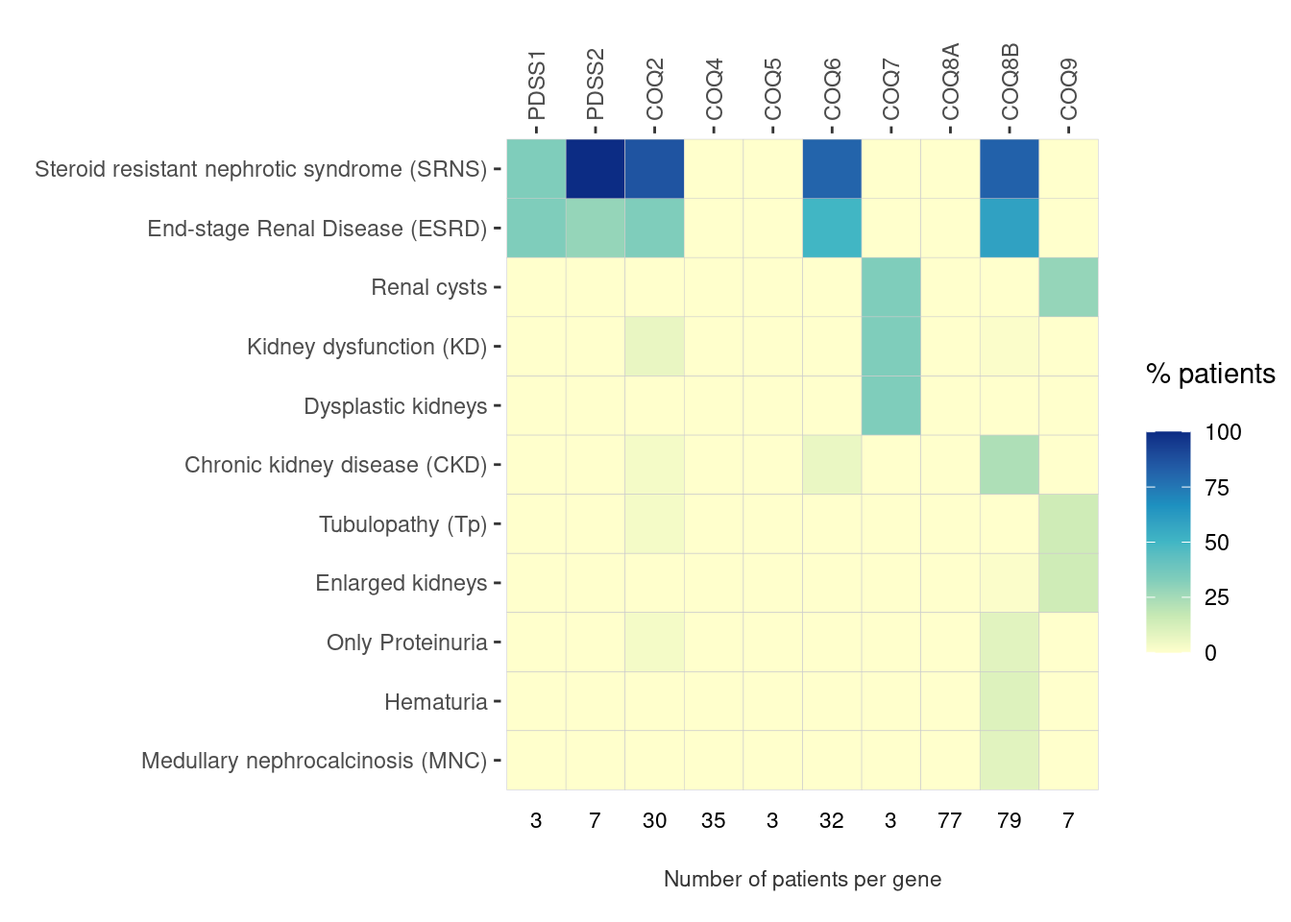
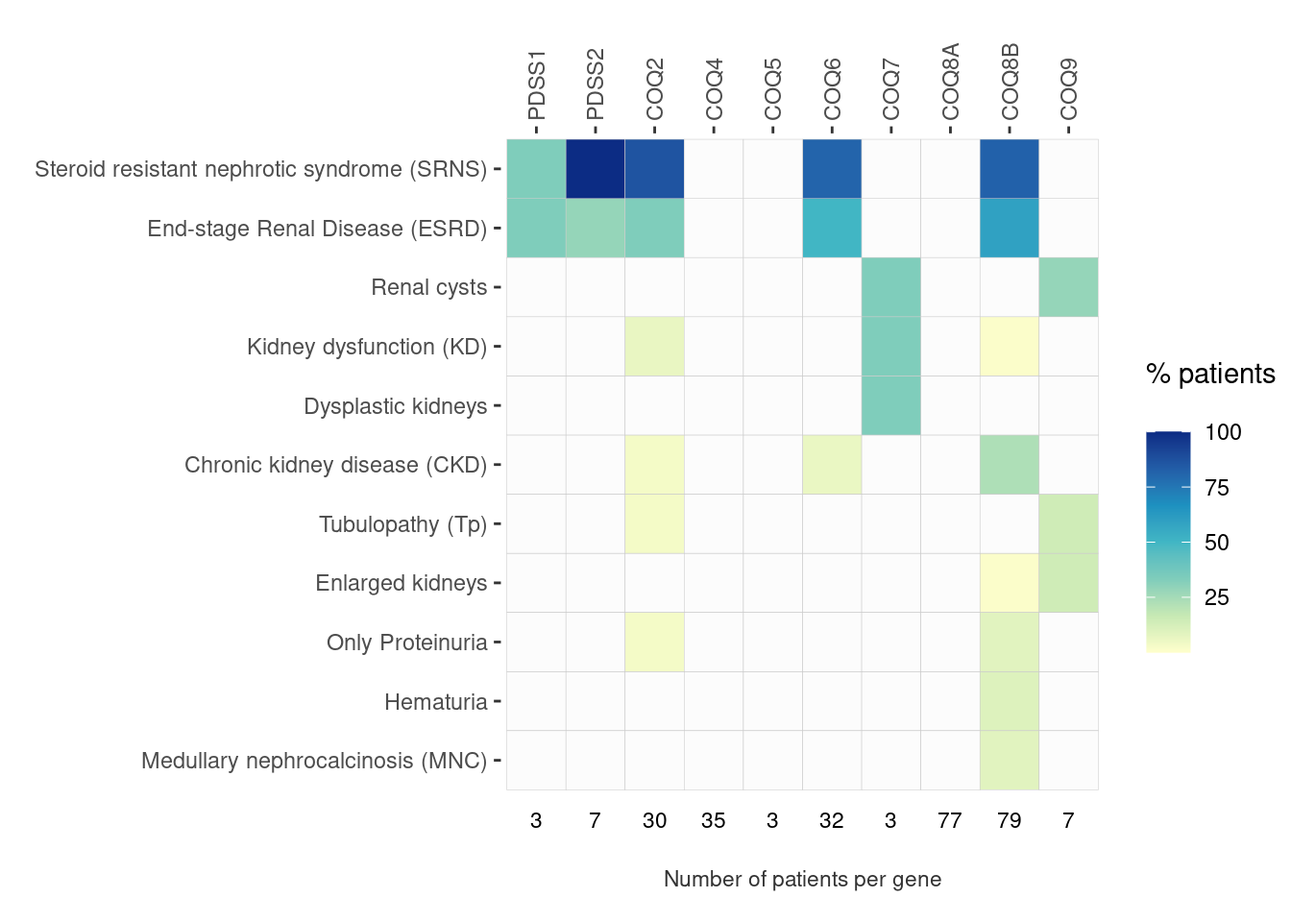
heatmap: show cells with 0 patients in different colour (light grey)

Changed region(s): [[0.375, 0.125, 0.875, 0.875]]

diff --git a/docs/Table.html b/docs/Table.html
@@ -361,8 +361,8 @@ $(document).ready(function () {
 
 
 <p>In this table you can search by symptom (and link to symptom description). Numbers represent number of patients.</p>
-<div id="htmlwidget-c0d28155d7afb2cf075a" style="width:100%;height:auto;" class="datatables html-widget"></div>
-<script type="application/json" data-for="htmlwidget-c0d28155d7afb2cf075a">{"x":{"filter":"top","filterHTML":"<tr>\n  <td data-type=\"character\" style=\"vertical-align: top;\">\n    <div class=\"form-group has-feedback\" style=\"margin-bottom: auto;\">\n      <input type=\"search\" placeholder=\"All\" class=\"form-control\" style=\"width: 100%;\"/>\n      <span class=\"glyphicon glyphicon-remove-circle form-control-feedback\"><\/span>\n    <\/div>\n  <\/td>\n  <td data-type=\"character\" style=\"vertical-align: top;\">\n    <div class=\"form-group has-feedback\" style=\"margin-bottom: auto;\">\n      <input type=\"search\" placeholder=\"All\" class=\"form-control\" style=\"width: 100%;\"/>\n      <span class=\"glyphicon glyphicon-remove-circle form-control-feedback\"><\/span>\n    <\/div>\n  <\/td>\n  <td data-type=\"number\" style=\"vertical-align: top;\">\n    <div class=\"form-group has-feedback\" style=\"margin-bottom: auto;\">\n      <input type=\"search\" placeholder=\"All\" class=\"form-control\" style=\"width: 100%;\"/>\n      <span class=\"glyphicon glyphicon-remove-circle form-control-feedback\"><\/span>\n    <\/div>\n    <div style=\"display: none; position: absolute; width: 200px;\">\n      <div data-min=\"0\" data-max=\"2\"><\/div>\n      <span style=\"float: left;\"><\/span>\n      <span style=\"float: right;\"><\/span>\n    <\/div>\n  <\/td>\n  <td data-type=\"number\" style=\"vertical-align: top;\">\n    <div class=\"form-group has-feedback\" style=\"margin-bottom: auto;\">\n      <input type=\"search\" placeholder=\"All\" class=\"form-control\" style=\"width: 100%;\"/>\n      <span class=\"glyphicon glyphicon-remove-circle form-control-feedback\"><\/span>\n    <\/div>\n    <div style=\"display: none; position: absolute; width: 200px;\">\n      <div data-min=\"0\" data-max=\"7\"><\/div>\n      <span style=\"float: left;\"><\/span>\n      <span style=\"float: right;\"><\/span>\n    <\/div>\n  <\/td>\n  <td data-type=\"number\" style=\"vertical-align: top;\">\n    <div class=\"form-group has-feedback\" style=\"margin-bottom: auto;\">\n      <input type=\"search\" placeholder=\"All\" class=\"form-control\" style=\"width: 100%;\"/>\n      <span class=\"glyphicon glyphicon-remove-circle form-control-feedback\"><\/span>\n    <\/div>\n    <div style=\"display: none; position: absolute; width: 200px;\">\n      <div data-min=\"0\" data-max=\"26\"><\/div>\n      <span style=\"float: left;\"><\/span>\n      <span style=\"float: right;\"><\/span>\n    <\/div>\n  <\/td>\n  <td data-type=\"number\" style=\"vertical-align: top;\">\n    <div class=\"form-group has-feedback\" style=\"margin-bottom: auto;\">\n      <input type=\"search\" placeholder=\"All\" class=\"form-control\" style=\"width: 100%;\"/>\n      <span class=\"glyphicon glyphicon-remove-circle form-control-feedback\"><\/span>\n    <\/div>\n    <div style=\"display: none; position: absolute; width: 200px;\">\n      <div data-min=\"0\" data-max=\"19\"><\/div>\n      <span style=\"float: left;\"><\/span>\n      <span style=\"float: right;\"><\/span>\n    <\/div>\n  <\/td>\n  <td data-type=\"number\" style=\"vertical-align: top;\">\n    <div class=\"form-group has-feedback\" style=\"margin-bottom: auto;\">\n      <input type=\"search\" placeholder=\"All\" class=\"form-control\" style=\"width: 100%;\"/>\n      <span class=\"glyphicon glyphicon-remove-circle form-control-feedback\"><\/span>\n    <\/div>\n    <div style=\"display: none; position: absolute; width: 200px;\">\n      <div data-min=\"0\" data-max=\"3\"><\/div>\n      <span style=\"float: left;\"><\/span>\n      <span style=\"float: right;\"><\/span>\n    <\/div>\n  <\/td>\n  <td data-type=\"number\" style=\"vertical-align: top;\">\n    <div class=\"form-group has-feedback\" style=\"margin-bottom: auto;\">\n      <input type=\"search\" placeholder=\"All\" class=\"form-control\" style=\"width: 100%;\"/>\n      <span class=\"glyphicon glyphicon-remove-circle form-control-feedback\"><\/span>\n    <\/div>\n    <div style=\"display: none; position: absolute; width: 200px;\">\n      <div data-min=\"0\" data-max=\"26\"><\/div>\n      <span style=\"float: left;\"><\/span>\n      <span style=\"float: right;\"><\/span>\n    <\/div>\n  <\/td>\n  <td data-type=\"number\" style=\"vertical-align: top;\">\n    <div class=\"form-group has-feedback\" style=\"margin-bottom: auto;\">\n      <input type=\"search\" placeholder=\"All\" class=\"form-control\" style=\"width: 100%;\"/>\n      <span class=\"glyphicon glyphicon-remove-circle form-control-feedback\"><\/span>\n    <\/div>\n    <div style=\"display: none; position: absolute; width: 200px;\">\n      <div data-min=\"0\" data-max=\"3\"><\/div>\n      <span style=\"float: left;\"><\/span>\n      <span style=\"float: right;\"><\/span>\n    <\/div>\n  <\/td>\n  <td data-type=\"number\" style=\"vertical-align: top;\">\n    <div class=\"form-group has-feedback\" style=\"margin-bottom: auto;\">\n      <input type=\"search\" placeholder=\"All\" class=\"form-control\" style=\"width: 100%;\"/>\n      <span class=\"glyphicon glyphicon-remove-circle form-control-feedback\"><\/span>\n    <\/div>\n    <div style=\"display: none; position: absolute; width: 200px;\">\n      <div data-min=\"0\" data-max=\"70\"><\/div>\n      <span style=\"float: left;\"><\/span>\n      <span style=\"float: right;\"><\/span>\n    <\/div>\n  <\/td>\n  <td data-type=\"number\" style=\"vertical-align: top;\">\n    <div class=\"form-group has-feedback\" style=\"margin-bottom: auto;\">\n      <input type=\"search\" placeholder=\"All\" class=\"form-control\" style=\"width: 100%;\"/>\n      <span class=\"glyphicon glyphicon-remove-circle form-control-feedback\"><\/span>\n    <\/div>\n    <div style=\"display: none; position: absolute; width: 200px;\">\n      <div data-min=\"0\" data-max=\"65\"><\/div>\n      <span style=\"float: left;\"><\/span>\n      <span style=\"float: right;\"><\/span>\n    <\/div>\n  <\/td>\n  <td data-type=\"number\" style=\"vertical-align: top;\">\n    <div class=\"form-group has-feedback\" style=\"margin-bottom: auto;\">\n      <input type=\"search\" placeholder=\"All\" class=\"form-control\" style=\"width: 100%;\"/>\n      <span class=\"glyphicon glyphicon-remove-circle form-control-feedback\"><\/span>\n    <\/div>\n    <div style=\"display: none; position: absolute; width: 200px;\">\n      <div data-min=\"0\" data-max=\"6\"><\/div>\n      <span style=\"float: left;\"><\/span>\n      <span style=\"float: right;\"><\/span>\n    <\/div>\n  <\/td>\n<\/tr>","data":[["CNS","CNS","CNS","CNS","CNS","CNS","CNS","CNS","CNS","CNS","CNS","CNS","CNS","CNS","CNS","CNS","CNS","CNS","CNS","CNS","CNS","CNS","CNS","CNS","CNS","CNS","CNS","CNS","CNS","CNS","CNS","CNS","CNS","CNS","CNS","CNS","CNS","CNS","CNS","CNS","CNS","CNS","Heart","Heart","Heart","Heart","Heart","Heart","Heart","Heart","Heart","Heart","Heart","Heart","Kidney","Kidney","Kidney","Kidney","Kidney","Kidney","Kidney","Kidney","Kidney","Kidney","Kidney","Liver","Liver","Liver","Liver","Liver","Lung","Lung","Lung","Lung","Lung","Lung","Lung","Muscle","Muscle","Muscle","Muscle","Muscle","Other","Other","Other","Other","Other","Other","Other","Other","Other","Other","Other","Other","Other","Other","Other","Other","Other","Other","Other","Other","Other","Other","Other","PNS/sensory organs","PNS/sensory organs","PNS/sensory organs","PNS/sensory organs","PNS/sensory organs","PNS/sensory organs","PNS/sensory organs","PNS/sensory organs","PNS/sensory organs","PNS/sensory organs","PNS/sensory organs","PNS/sensory organs","PNS/sensory organs","PNS/sensory organs","PNS/sensory organs"],["Autosomal recessive cerebellar ataxia 2 (ARCA2)","Basal ganglia lesions (BGL)","Cerebellar atrophy (CAt)","Cerebellar hypoplasia (CHyp)","Cerebral atrophy","Cerebral Hypoplasia","Cerebral palsy","Chorea","Depression","Deteriorated ambulation (DAmb)","Developmental delay(DD)","Dysarthria (Dy)","Dysdiadochokinesia","Dysmetria","Dystonia","Encephalopathy","Epilepsy (Ep)","Gait instability (GI)","Headaches","Hypotonia (Ht)","Impaired Handwriting (IH)","Intellectual deficiency (ID)","Leigh-like Syndrome (LS)","Migraine","Multifocal global ischemic events (MGIE)","Muscle stiffness (MS)","Myoclonus (My)","Non-visual pursuit (nVP)","Nystagmus (Ny)","Opisthotonus","Ptosis (Pt)","Pyramidal syndrome","Saccadic eye movements (SEM)","Seizures (Sz)","Slow ocular pursuit","Spams","Spasticity (Sp)","Sporadic Multisystem Atrophy (MSA)","Strabismus","Stroke-like lessions (SLL)","Thalamic hypoplasia (THyp)","Tremor (Tr)","Bradycardia","Cardiomegaly","Cardiomyopathy","Heart Failure(HF)","Heart hypoplasia (HHyp)","Hypertrophic Cardiomyopathy (HCM)","Isolated ventricular non-compactation (IVNC)","Pericardial effusion","Septal defects","Tachycardia","Valvulopathy (Vp)","Diastolic dysfunction","Chronic kidney disease (CKD)","Dysplastic kidneys","End-stage Renal Disease (ESRD)","Enlarged kidneys","Hematuria","Kidney dysfunction (KD)","Medullary nephrocalcinosis (MNC)","Only Proteinuria","Renal cysts","Steroid resistant nephrotic syndrome (SRNS)","Tubulopathy (Tp)","Cholestatic Liver","Hepatomegaly","Hepatosteatosis","Liver failure (LF)","Reduced hematopoiesis in liver","Respiratory distress (RD)","Neonatal Pneumonia","Respiratory failure (RF)","Apnea","Chronic Lung Disease (CLD)","Recurrent Respiratory infections","Lung Hypoplasia (LHyp)","Exercise intolerance (EI)","Lipid accumulation in muscle (LAM)","Muscle fatigue (MF)","Muscle weakness (MW)","Myopathy","Dysmorphic features","Edema","Diabetes Mellitus (DM)","Obesity","Hypercholesterolemia","Goiter","Hypothyroidism","Cyanosis","Hypertension (HT)","Hypotension","Livedo Reticularis (LR)","Dyspnea","Circulatory collapse","Noctural enuresis","Polyuria","Polidypsia","Coma","Hypospadias","Lupus-like symptoms","Oligohydramnios","Recurrent Otitis","Splenomegaly","Crohn's Disease (CD)","Astigmatism","Cataracts","Delayed visual maturation","Hearing impairment","Hearing Loss (HL)","Hypermetropia","Myopia","Optic Nerve Atrophy (OA)","Peripheral Neuropathy (PNSN)","Retinitis Pigmentosa (RP)","Retinopathy (Rp)","Rod-Cone dysfunction","Sensorineural hearing loss (SNHL)","Visual aureas","Visual dysfunction"],[0,0,0,0,0,0,0,0,0,0,1,0,0,0,0,2,0,0,0,0,0,2,0,0,0,0,0,0,0,0,0,0,0,0,0,0,0,0,0,0,0,0,0,0,0,0,0,0,0,0,0,0,2,0,0,0,1,0,0,0,0,0,0,1,0,0,0,0,0,0,0,0,0,0,0,0,0,0,0,0,0,0,0,0,0,2,0,0,0,0,1,0,2,0,0,0,0,0,0,0,0,0,0,0,0,0,0,0,0,0,0,0,2,2,0,0,0,2,0,0],[3,1,0,0,0,0,1,0,0,0,1,0,0,0,1,1,0,0,0,2,0,3,1,0,0,0,0,0,2,0,0,1,0,1,0,0,1,0,0,0,0,0,0,0,0,0,0,2,0,0,0,0,0,0,0,0,2,0,0,0,0,0,0,7,0,0,0,0,0,0,0,1,0,0,0,0,0,0,0,0,0,0,0,2,0,0,0,0,0,0,1,0,0,0,0,0,0,0,0,0,0,0,0,0,0,0,1,0,0,0,0,2,1,0,2,0,0,4,0,2],[0,1,1,0,0,0,0,0,0,0,2,0,0,0,2,9,4,0,0,6,0,0,0,0,0,1,2,1,3,0,0,0,0,11,0,0,0,0,0,2,0,1,1,0,0,0,0,3,0,0,0,0,0,0,1,0,10,0,0,2,0,1,0,26,1,1,0,0,3,0,2,0,5,2,1,1,0,0,1,0,1,0,0,11,6,0,2,0,0,0,1,0,0,0,0,0,0,0,0,0,0,4,0,0,0,0,0,0,0,0,0,0,1,0,0,2,0,0,0,0],[4,5,8,10,6,1,0,0,0,6,18,2,2,2,6,11,9,0,0,19,0,6,2,0,0,0,1,0,1,0,0,0,1,19,0,2,8,0,0,2,1,2,5,3,0,2,1,13,0,1,1,2,0,1,0,0,0,0,0,0,0,0,0,0,0,0,0,0,0,0,14,0,5,9,0,1,0,0,0,0,0,2,1,0,0,0,0,0,0,2,0,2,0,0,1,0,0,0,1,0,0,1,0,0,0,0,0,1,2,1,0,0,0,1,0,0,0,0,0,6],[3,0,3,0,0,0,0,0,0,0,2,3,0,2,0,3,1,0,0,0,0,3,0,0,0,0,2,0,3,0,0,0,1,2,0,0,1,0,0,0,0,1,0,0,0,0,0,0,0,0,0,0,0,0,0,0,0,0,0,0,0,0,0,0,0,0,0,0,0,0,0,0,0,0,0,0,0,0,0,0,0,0,0,0,0,0,0,0,0,0,0,0,0,0,0,0,0,0,0,0,0,0,0,0,0,0,0,0,0,0,0,0,0,0,0,0,0,0,0,0],[1,0,0,0,0,0,0,0,0,0,4,0,0,0,0,1,0,0,0,1,0,1,0,0,0,0,0,0,1,0,1,0,0,2,0,0,0,0,0,0,0,0,0,0,0,0,0,0,0,0,1,0,0,0,2,0,16,0,0,0,0,0,0,26,0,0,0,0,0,0,0,0,0,0,0,0,0,0,0,0,3,0,1,2,0,0,1,0,0,0,1,0,0,0,0,0,0,0,0,0,0,0,0,0,0,0,0,0,0,0,0,0,1,0,0,0,0,18,0,1],[0,1,0,0,1,0,0,0,0,0,3,0,0,0,0,1,0,0,0,3,0,1,0,0,0,0,0,1,0,0,1,0,0,0,0,1,1,0,0,0,0,0,0,0,0,1,0,2,0,0,0,0,0,0,0,1,0,0,0,1,0,0,1,0,0,0,0,0,0,0,2,0,0,0,0,0,1,0,0,0,3,1,1,0,0,0,0,0,0,0,1,0,0,0,0,0,0,0,0,0,0,2,0,0,0,0,0,0,0,0,0,0,0,2,0,0,0,3,0,2],[70,0,62,2,0,0,0,2,3,0,13,27,8,21,14,2,15,16,0,7,11,35,0,5,0,0,14,0,9,0,3,1,14,19,1,0,8,0,4,6,0,33,0,0,1,0,0,0,0,0,1,0,0,0,0,0,0,0,0,0,0,0,0,0,0,0,0,1,0,0,0,0,0,0,0,1,0,14,3,3,13,1,1,0,0,0,1,0,0,0,0,0,0,0,0,0,0,0,0,0,0,0,0,0,0,0,1,0,0,0,0,0,0,0,0,0,1,2,1,1],[0,0,0,0,0,0,0,0,0,0,1,0,0,0,0,1,2,0,4,0,0,4,0,0,0,0,0,0,0,0,0,0,0,4,0,0,0,0,0,0,0,0,0,0,2,1,0,2,0,1,2,0,0,0,18,0,47,1,8,1,7,7,0,65,0,0,1,0,0,0,0,0,0,0,0,0,0,0,0,1,1,0,1,16,0,0,1,2,1,0,11,0,0,1,0,2,1,1,0,1,1,0,1,1,1,2,0,0,0,0,2,0,0,0,1,0,0,0,0,1],[0,1,1,1,0,0,0,0,0,0,6,0,0,0,1,3,0,0,0,2,0,0,2,0,1,1,0,0,0,1,0,0,0,3,0,0,0,0,0,0,0,0,2,1,0,0,0,1,1,0,0,0,0,0,0,0,0,1,0,0,0,0,2,0,1,0,0,0,0,1,3,0,0,2,0,0,0,0,0,0,0,0,1,0,0,0,0,0,0,1,1,0,0,0,0,0,0,0,0,0,0,3,0,0,0,0,0,0,0,0,0,0,0,0,0,0,0,0,0,0]],"container":"<table class=\"display\">\n  <thead>\n    <tr>\n      <th>group<\/th>\n      <th>symptom<\/th>\n      <th>PDSS1<\/th>\n      <th>PDSS2<\/th>\n      <th>COQ2<\/th>\n      <th>COQ4<\/th>\n      <th>COQ5<\/th>\n      <th>COQ6<\/th>\n      <th>COQ7<\/th>\n      <th>COQ8A<\/th>\n      <th>COQ8B<\/th>\n      <th>COQ9<\/th>\n    <\/tr>\n  <\/thead>\n<\/table>","options":{"columnDefs":[{"className":"dt-right","targets":[2,3,4,5,6,7,8,9,10,11]}],"order":[],"autoWidth":false,"orderClasses":false,"orderCellsTop":true}},"evals":[],"jsHooks":[]}</script>
+<div id="htmlwidget-6f500d68b3cc47ef2005" style="width:100%;height:auto;" class="datatables html-widget"></div>
+<script type="application/json" data-for="htmlwidget-6f500d68b3cc47ef2005">{"x":{"filter":"top","filterHTML":"<tr>\n  <td data-type=\"character\" style=\"vertical-align: top;\">\n    <div class=\"form-group has-feedback\" style=\"margin-bottom: auto;\">\n      <input type=\"search\" placeholder=\"All\" class=\"form-control\" style=\"width: 100%;\"/>\n      <span class=\"glyphicon glyphicon-remove-circle form-control-feedback\"><\/span>\n    <\/div>\n  <\/td>\n  <td data-type=\"character\" style=\"vertical-align: top;\">\n    <div class=\"form-group has-feedback\" style=\"margin-bottom: auto;\">\n      <input type=\"search\" placeholder=\"All\" class=\"form-control\" style=\"width: 100%;\"/>\n      <span class=\"glyphicon glyphicon-remove-circle form-control-feedback\"><\/span>\n    <\/div>\n  <\/td>\n  <td data-type=\"number\" style=\"vertical-align: top;\">\n    <div class=\"form-group has-feedback\" style=\"margin-bottom: auto;\">\n      <input type=\"search\" placeholder=\"All\" class=\"form-control\" style=\"width: 100%;\"/>\n      <span class=\"glyphicon glyphicon-remove-circle form-control-feedback\"><\/span>\n    <\/div>\n    <div style=\"display: none; position: absolute; width: 200px;\">\n      <div data-min=\"0\" data-max=\"2\"><\/div>\n      <span style=\"float: left;\"><\/span>\n      <span style=\"float: right;\"><\/span>\n    <\/div>\n  <\/td>\n  <td data-type=\"number\" style=\"vertical-align: top;\">\n    <div class=\"form-group has-feedback\" style=\"margin-bottom: auto;\">\n      <input type=\"search\" placeholder=\"All\" class=\"form-control\" style=\"width: 100%;\"/>\n      <span class=\"glyphicon glyphicon-remove-circle form-control-feedback\"><\/span>\n    <\/div>\n    <div style=\"display: none; position: absolute; width: 200px;\">\n      <div data-min=\"0\" data-max=\"7\"><\/div>\n      <span style=\"float: left;\"><\/span>\n      <span style=\"float: right;\"><\/span>\n    <\/div>\n  <\/td>\n  <td data-type=\"number\" style=\"vertical-align: top;\">\n    <div class=\"form-group has-feedback\" style=\"margin-bottom: auto;\">\n      <input type=\"search\" placeholder=\"All\" class=\"form-control\" style=\"width: 100%;\"/>\n      <span class=\"glyphicon glyphicon-remove-circle form-control-feedback\"><\/span>\n    <\/div>\n    <div style=\"display: none; position: absolute; width: 200px;\">\n      <div data-min=\"0\" data-max=\"26\"><\/div>\n      <span style=\"float: left;\"><\/span>\n      <span style=\"float: right;\"><\/span>\n    <\/div>\n  <\/td>\n  <td data-type=\"number\" style=\"vertical-align: top;\">\n    <div class=\"form-group has-feedback\" style=\"margin-bottom: auto;\">\n      <input type=\"search\" placeholder=\"All\" class=\"form-control\" style=\"width: 100%;\"/>\n      <span class=\"glyphicon glyphicon-remove-circle form-control-feedback\"><\/span>\n    <\/div>\n    <div style=\"display: none; position: absolute; width: 200px;\">\n      <div data-min=\"0\" data-max=\"19\"><\/div>\n      <span style=\"float: left;\"><\/span>\n      <span style=\"float: right;\"><\/span>\n    <\/div>\n  <\/td>\n  <td data-type=\"number\" style=\"vertical-align: top;\">\n    <div class=\"form-group has-feedback\" style=\"margin-bottom: auto;\">\n      <input type=\"search\" placeholder=\"All\" class=\"form-control\" style=\"width: 100%;\"/>\n      <span class=\"glyphicon glyphicon-remove-circle form-control-feedback\"><\/span>\n    <\/div>\n    <div style=\"display: none; position: absolute; width: 200px;\">\n      <div data-min=\"0\" data-max=\"3\"><\/div>\n      <span style=\"float: left;\"><\/span>\n      <span style=\"float: right;\"><\/span>\n    <\/div>\n  <\/td>\n  <td data-type=\"number\" style=\"vertical-align: top;\">\n    <div class=\"form-group has-feedback\" style=\"margin-bottom: auto;\">\n      <input type=\"search\" placeholder=\"All\" class=\"form-control\" style=\"width: 100%;\"/>\n      <span class=\"glyphicon glyphicon-remove-circle form-control-feedback\"><\/span>\n    <\/div>\n    <div style=\"display: none; position: absolute; width: 200px;\">\n      <div data-min=\"0\" data-max=\"26\"><\/div>\n      <span style=\"float: left;\"><\/span>\n      <span style=\"float: right;\"><\/span>\n    <\/div>\n  <\/td>\n  <td data-type=\"number\" style=\"vertical-align: top;\">\n    <div class=\"form-group has-feedback\" style=\"margin-bottom: auto;\">\n      <input type=\"search\" placeholder=\"All\" class=\"form-control\" style=\"width: 100%;\"/>\n      <span class=\"glyphicon glyphicon-remove-circle form-control-feedback\"><\/span>\n    <\/div>\n    <div style=\"display: none; position: absolute; width: 200px;\">\n      <div data-min=\"0\" data-max=\"3\"><\/div>\n      <span style=\"float: left;\"><\/span>\n      <span style=\"float: right;\"><\/span>\n    <\/div>\n  <\/td>\n  <td data-type=\"number\" style=\"vertical-align: top;\">\n    <div class=\"form-group has-feedback\" style=\"margin-bottom: auto;\">\n      <input type=\"search\" placeholder=\"All\" class=\"form-control\" style=\"width: 100%;\"/>\n      <span class=\"glyphicon glyphicon-remove-circle form-control-feedback\"><\/span>\n    <\/div>\n    <div style=\"display: none; position: absolute; width: 200px;\">\n      <div data-min=\"0\" data-max=\"70\"><\/div>\n      <span style=\"float: left;\"><\/span>\n      <span style=\"float: right;\"><\/span>\n    <\/div>\n  <\/td>\n  <td data-type=\"number\" style=\"vertical-align: top;\">\n    <div class=\"form-group has-feedback\" style=\"margin-bottom: auto;\">\n      <input type=\"search\" placeholder=\"All\" class=\"form-control\" style=\"width: 100%;\"/>\n      <span class=\"glyphicon glyphicon-remove-circle form-control-feedback\"><\/span>\n    <\/div>\n    <div style=\"display: none; position: absolute; width: 200px;\">\n      <div data-min=\"0\" data-max=\"65\"><\/div>\n      <span style=\"float: left;\"><\/span>\n      <span style=\"float: right;\"><\/span>\n    <\/div>\n  <\/td>\n  <td data-type=\"number\" style=\"vertical-align: top;\">\n    <div class=\"form-group has-feedback\" style=\"margin-bottom: auto;\">\n      <input type=\"search\" placeholder=\"All\" class=\"form-control\" style=\"width: 100%;\"/>\n      <span class=\"glyphicon glyphicon-remove-circle form-control-feedback\"><\/span>\n    <\/div>\n    <div style=\"display: none; position: absolute; width: 200px;\">\n      <div data-min=\"0\" data-max=\"6\"><\/div>\n      <span style=\"float: left;\"><\/span>\n      <span style=\"float: right;\"><\/span>\n    <\/div>\n  <\/td>\n<\/tr>","data":[["CNS","CNS","CNS","CNS","CNS","CNS","CNS","CNS","CNS","CNS","CNS","CNS","CNS","CNS","CNS","CNS","CNS","CNS","CNS","CNS","CNS","CNS","CNS","CNS","CNS","CNS","CNS","CNS","CNS","CNS","CNS","CNS","CNS","CNS","CNS","CNS","CNS","CNS","CNS","CNS","CNS","CNS","Heart","Heart","Heart","Heart","Heart","Heart","Heart","Heart","Heart","Heart","Heart","Heart","Kidney","Kidney","Kidney","Kidney","Kidney","Kidney","Kidney","Kidney","Kidney","Kidney","Kidney","Liver","Liver","Liver","Liver","Liver","Lung","Lung","Lung","Lung","Lung","Lung","Lung","Muscle","Muscle","Muscle","Muscle","Muscle","Other","Other","Other","Other","Other","Other","Other","Other","Other","Other","Other","Other","Other","Other","Other","Other","Other","Other","Other","Other","Other","Other","Other","PNS/sensory organs","PNS/sensory organs","PNS/sensory organs","PNS/sensory organs","PNS/sensory organs","PNS/sensory organs","PNS/sensory organs","PNS/sensory organs","PNS/sensory organs","PNS/sensory organs","PNS/sensory organs","PNS/sensory organs","PNS/sensory organs","PNS/sensory organs","PNS/sensory organs"],["Autosomal recessive cerebellar ataxia 2 (ARCA2)","Basal ganglia lesions (BGL)","Cerebellar atrophy (CAt)","Cerebellar hypoplasia (CHyp)","Cerebral atrophy","Cerebral Hypoplasia","Cerebral palsy","Chorea","Depression","Deteriorated ambulation (DAmb)","Developmental delay(DD)","Dysarthria (Dy)","Dysdiadochokinesia","Dysmetria","Dystonia","Encephalopathy","Epilepsy (Ep)","Gait instability (GI)","Headaches","Hypotonia (Ht)","Impaired Handwriting (IH)","Intellectual deficiency (ID)","Leigh-like Syndrome (LS)","Migraine","Multifocal global ischemic events (MGIE)","Muscle stiffness (MS)","Myoclonus (My)","Non-visual pursuit (nVP)","Nystagmus (Ny)","Opisthotonus","Ptosis (Pt)","Pyramidal syndrome","Saccadic eye movements (SEM)","Seizures (Sz)","Slow ocular pursuit","Spams","Spasticity (Sp)","Sporadic Multisystem Atrophy (MSA)","Strabismus","Stroke-like lessions (SLL)","Thalamic hypoplasia (THyp)","Tremor (Tr)","Bradycardia","Cardiomegaly","Cardiomyopathy","Heart Failure(HF)","Heart hypoplasia (HHyp)","Hypertrophic Cardiomyopathy (HCM)","Isolated ventricular non-compactation (IVNC)","Pericardial effusion","Septal defects","Tachycardia","Valvulopathy (Vp)","Diastolic dysfunction","Chronic kidney disease (CKD)","Dysplastic kidneys","End-stage Renal Disease (ESRD)","Enlarged kidneys","Hematuria","Kidney dysfunction (KD)","Medullary nephrocalcinosis (MNC)","Only Proteinuria","Renal cysts","Steroid resistant nephrotic syndrome (SRNS)","Tubulopathy (Tp)","Cholestatic Liver","Hepatomegaly","Hepatosteatosis","Liver failure (LF)","Reduced hematopoiesis in liver","Respiratory distress (RD)","Neonatal Pneumonia","Respiratory failure (RF)","Apnea","Chronic Lung Disease (CLD)","Recurrent Respiratory infections","Lung Hypoplasia (LHyp)","Exercise intolerance (EI)","Lipid accumulation in muscle (LAM)","Muscle fatigue (MF)","Muscle weakness (MW)","Myopathy","Dysmorphic features","Edema","Diabetes Mellitus (DM)","Obesity","Hypercholesterolemia","Goiter","Hypothyroidism","Cyanosis","Hypertension (HT)","Hypotension","Livedo Reticularis (LR)","Dyspnea","Circulatory collapse","Noctural enuresis","Polyuria","Polidypsia","Coma","Hypospadias","Lupus-like symptoms","Oligohydramnios","Recurrent Otitis","Splenomegaly","Crohn's Disease (CD)","Astigmatism","Cataracts","Delayed visual maturation","Hearing impairment","Hearing Loss (HL)","Hypermetropia","Myopia","Optic Nerve Atrophy (OA)","Peripheral Neuropathy (PNSN)","Retinitis Pigmentosa (RP)","Retinopathy (Rp)","Rod-Cone dysfunction","Sensorineural hearing loss (SNHL)","Visual aureas","Visual dysfunction"],[0,0,0,0,0,0,0,0,0,0,1,0,0,0,0,2,0,0,0,0,0,2,0,0,0,0,0,0,0,0,0,0,0,0,0,0,0,0,0,0,0,0,0,0,0,0,0,0,0,0,0,0,2,0,0,0,1,0,0,0,0,0,0,1,0,0,0,0,0,0,0,0,0,0,0,0,0,0,0,0,0,0,0,0,0,2,0,0,0,0,1,0,2,0,0,0,0,0,0,0,0,0,0,0,0,0,0,0,0,0,0,0,2,2,0,0,0,2,0,0],[3,1,0,0,0,0,1,0,0,0,1,0,0,0,1,1,0,0,0,2,0,3,1,0,0,0,0,0,2,0,0,1,0,1,0,0,1,0,0,0,0,0,0,0,0,0,0,2,0,0,0,0,0,0,0,0,2,0,0,0,0,0,0,7,0,0,0,0,0,0,0,1,0,0,0,0,0,0,0,0,0,0,0,2,0,0,0,0,0,0,1,0,0,0,0,0,0,0,0,0,0,0,0,0,0,0,1,0,0,0,0,2,1,0,2,0,0,4,0,2],[0,1,1,0,0,0,0,0,0,0,2,0,0,0,2,9,4,0,0,6,0,0,0,0,0,1,2,1,3,0,0,0,0,11,0,0,0,0,0,2,0,1,1,0,0,0,0,3,0,0,0,0,0,0,1,0,10,0,0,2,0,1,0,26,1,1,0,0,3,0,2,0,5,2,1,1,0,0,1,0,1,0,0,11,6,0,2,0,0,0,1,0,0,0,0,0,0,0,0,0,0,4,0,0,0,0,0,0,0,0,0,0,1,0,0,2,0,0,0,0],[4,5,8,10,6,1,0,0,0,6,18,2,2,2,6,11,9,0,0,19,0,6,2,0,0,0,1,0,1,0,0,0,1,19,0,2,8,0,0,2,1,2,5,3,0,2,1,13,0,1,1,2,0,1,0,0,0,0,0,0,0,0,0,0,0,0,0,0,0,0,14,0,5,9,0,1,0,0,0,0,0,2,1,0,0,0,0,0,0,2,0,2,0,0,1,0,0,0,1,0,0,1,0,0,0,0,0,1,2,1,0,0,0,1,0,0,0,0,0,6],[3,0,3,0,0,0,0,0,0,0,2,3,0,2,0,3,1,0,0,0,0,3,0,0,0,0,2,0,3,0,0,0,1,2,0,0,1,0,0,0,0,1,0,0,0,0,0,0,0,0,0,0,0,0,0,0,0,0,0,0,0,0,0,0,0,0,0,0,0,0,0,0,0,0,0,0,0,0,0,0,0,0,0,0,0,0,0,0,0,0,0,0,0,0,0,0,0,0,0,0,0,0,0,0,0,0,0,0,0,0,0,0,0,0,0,0,0,0,0,0],[1,0,0,0,0,0,0,0,0,0,4,0,0,0,0,1,0,0,0,1,0,1,0,0,0,0,0,0,1,0,1,0,0,2,0,0,0,0,0,0,0,0,0,0,0,0,0,0,0,0,1,0,0,0,2,0,16,0,0,0,0,0,0,26,0,0,0,0,0,0,0,0,0,0,0,0,0,0,0,0,3,0,1,2,0,0,1,0,0,0,1,0,0,0,0,0,0,0,0,0,0,0,0,0,0,0,0,0,0,0,0,0,1,0,0,0,0,18,0,1],[0,1,0,0,1,0,0,0,0,0,3,0,0,0,0,1,0,0,0,3,0,1,0,0,0,0,0,1,0,0,1,0,0,0,0,1,1,0,0,0,0,0,0,0,0,1,0,2,0,0,0,0,0,0,0,1,0,0,0,1,0,0,1,0,0,0,0,0,0,0,2,0,0,0,0,0,1,0,0,0,3,1,1,0,0,0,0,0,0,0,1,0,0,0,0,0,0,0,0,0,0,2,0,0,0,0,0,0,0,0,0,0,0,2,0,0,0,3,0,2],[70,0,62,2,0,0,0,2,3,0,13,27,8,21,14,2,15,16,0,7,11,35,0,5,0,0,14,0,9,0,3,1,14,19,1,0,8,0,4,6,0,33,0,0,1,0,0,0,0,0,1,0,0,0,0,0,0,0,0,0,0,0,0,0,0,0,0,1,0,0,0,0,0,0,0,1,0,14,3,3,13,1,1,0,0,0,1,0,0,0,0,0,0,0,0,0,0,0,0,0,0,0,0,0,0,0,1,0,0,0,0,0,0,0,0,0,1,2,1,1],[0,0,0,0,0,0,0,0,0,0,1,0,0,0,0,1,2,0,4,0,0,4,0,0,0,0,0,0,0,0,0,0,0,4,0,0,0,0,0,0,0,0,0,0,2,1,0,2,0,1,2,0,0,0,18,0,47,1,8,1,7,7,0,65,0,0,1,0,0,0,0,0,0,0,0,0,0,0,0,1,1,0,1,16,0,0,1,2,1,0,11,0,0,1,0,2,1,1,0,1,1,0,1,1,1,2,0,0,0,0,2,0,0,0,1,0,0,0,0,1],[0,1,1,1,0,0,0,0,0,0,6,0,0,0,1,3,0,0,0,2,0,0,2,0,1,1,0,0,0,1,0,0,0,3,0,0,0,0,0,0,0,0,2,1,0,0,0,1,1,0,0,0,0,0,0,0,0,1,0,0,0,0,2,0,1,0,0,0,0,1,3,0,0,2,0,0,0,0,0,0,0,0,1,0,0,0,0,0,0,1,1,0,0,0,0,0,0,0,0,0,0,3,0,0,0,0,0,0,0,0,0,0,0,0,0,0,0,0,0,0]],"container":"<table class=\"display\">\n  <thead>\n    <tr>\n      <th>group<\/th>\n      <th>symptom<\/th>\n      <th>PDSS1<\/th>\n      <th>PDSS2<\/th>\n      <th>COQ2<\/th>\n      <th>COQ4<\/th>\n      <th>COQ5<\/th>\n      <th>COQ6<\/th>\n      <th>COQ7<\/th>\n      <th>COQ8A<\/th>\n      <th>COQ8B<\/th>\n      <th>COQ9<\/th>\n    <\/tr>\n  <\/thead>\n<\/table>","options":{"columnDefs":[{"className":"dt-right","targets":[2,3,4,5,6,7,8,9,10,11]}],"order":[],"autoWidth":false,"orderClasses":false,"orderCellsTop":true}},"evals":[],"jsHooks":[]}</script>
 
 
 
